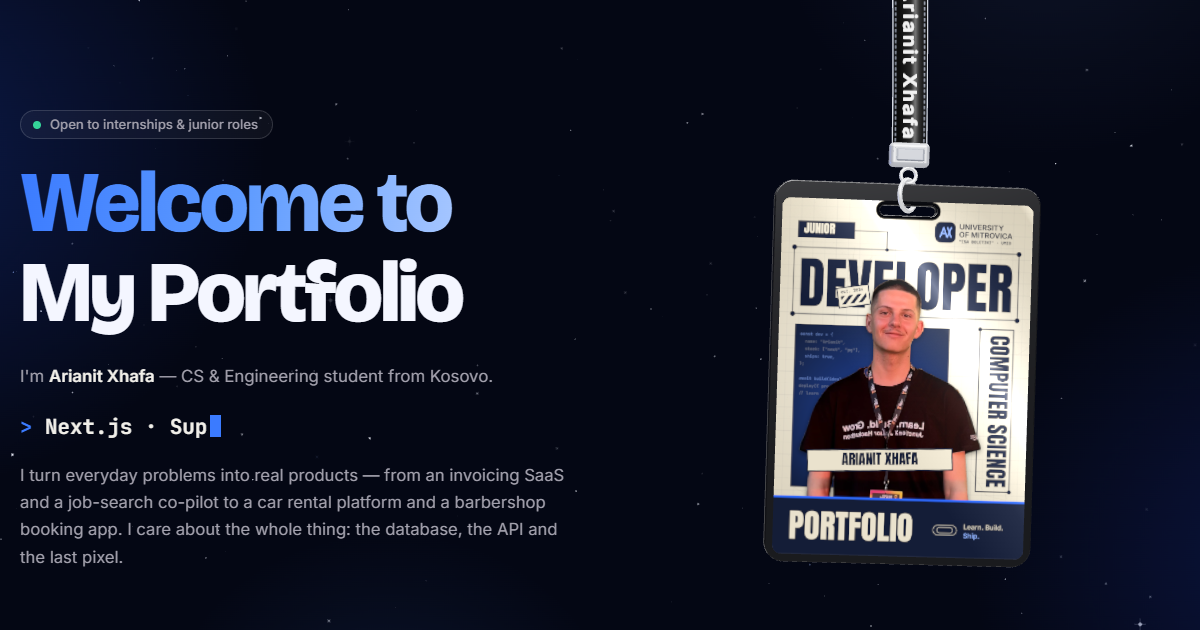
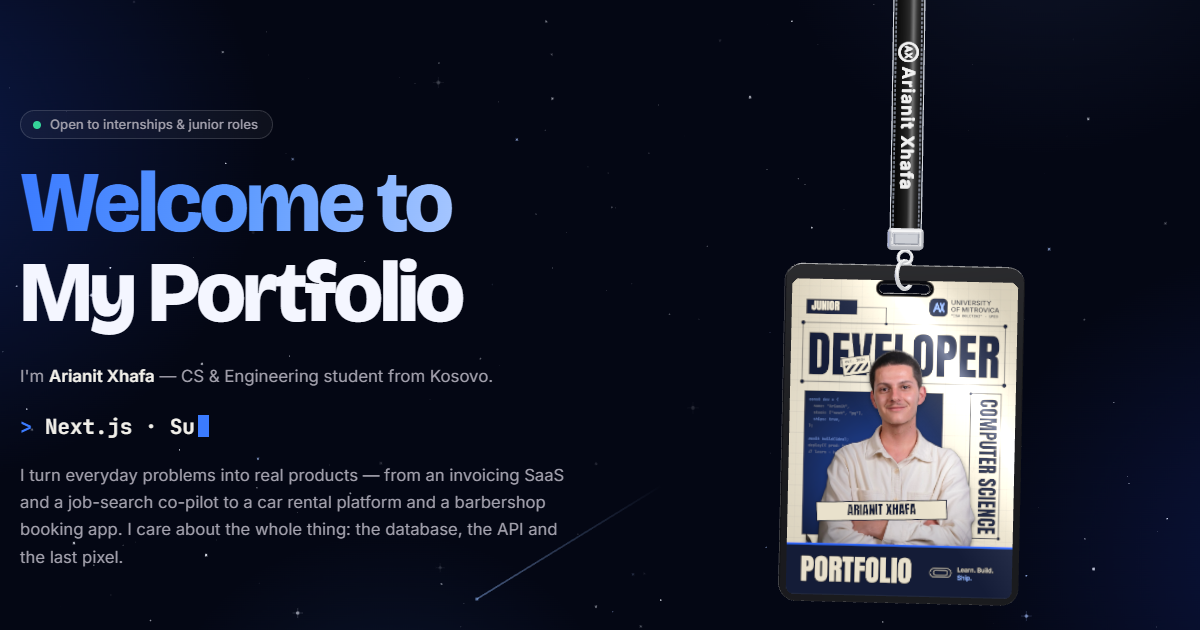
Use the new portrait on the 3D ID card
New photo (background removed) on the card's front, and the link-preview image
(og.png) regenerated to match. The About photo is unchanged.

Changed region(s): [[0.6167, 0.0, 0.8942, 0.9651], [0.1542, 0.6635, 0.185, 0.6937]]

diff --git a/index.html b/index.html
@@ -23,7 +23,7 @@
   <link rel="preconnect" href="https://fonts.googleapis.com" />
   <link rel="preconnect" href="https://fonts.gstatic.com" crossorigin />
   <link href="https://fonts.googleapis.com/css2?family=Anton&family=Bricolage+Grotesque:opsz,wght@12..96,500..800&family=Inter:wght@400;500;600&family=JetBrains+Mono:wght@500;700&display=swap" rel="stylesheet" />
-  <link rel="stylesheet" href="styles.css?v=20261117c" />
+  <link rel="stylesheet" href="styles.css?v=20261123a" />
   <script>document.documentElement.classList.add('js');</script>
   <script type="importmap">
     { "imports": {
@@ -66,7 +66,7 @@
     <!-- HERO -->
     <section class="hero" id="home">
       <!-- 3D ID card on an elastic lanyard (three.js). It covers the hero but ignores the pointer except on the card. -->
-      <canvas class="lanyard" data-photo="assets/me.webp" data-qr="assets/qr-linkedin.png" aria-label="3D ID card for Arianit Xhafa hanging from a lanyard — drag it to swing it, click or tap it to flip it"></canvas>
+      <canvas class="lanyard" data-photo="assets/card-photo.webp" data-qr="assets/qr-linkedin.png" aria-label="3D ID card for Arianit Xhafa hanging from a lanyard — drag it to swing it, click or tap it to flip it"></canvas>
       <div class="hero__text">
         <p class="chip" data-reveal><span class="chip__dot"></span>Open to internships &amp; junior roles</p>
         <h1 class="hero__title" data-reveal>
@@ -627,7 +627,7 @@
     <figure><img alt="" /><figcaption></figcaption></figure>
   </dialog>
 
-  <script src="main.js?v=20261117c" defer></script>
-  <script type="module" src="lanyard.js?v=20261117c"></script>
+  <script src="main.js?v=20261123a" defer></script>
+  <script type="module" src="lanyard.js?v=20261123a"></script>
 </body>
 </html>
